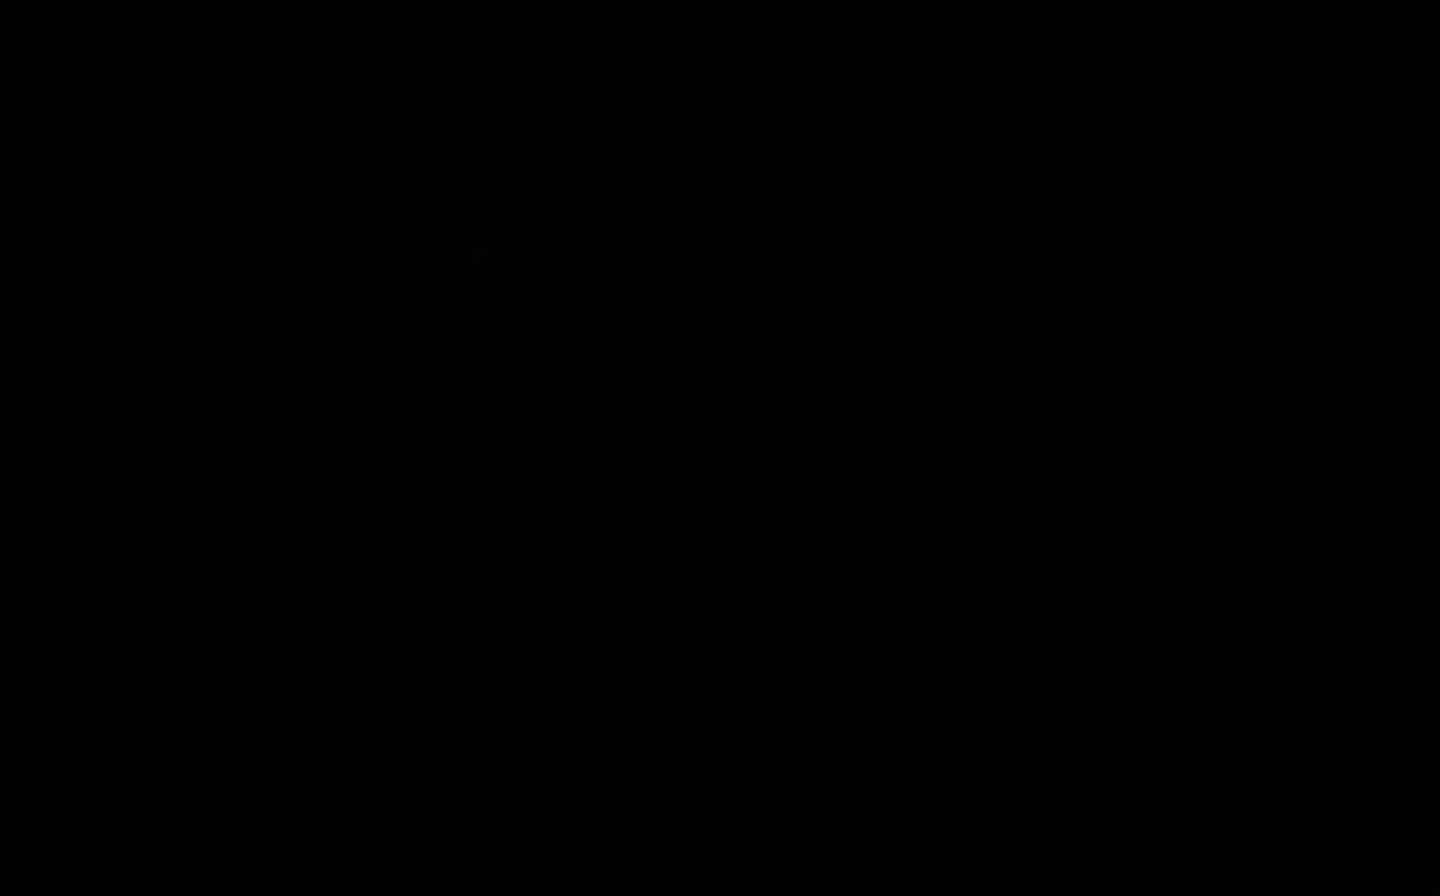
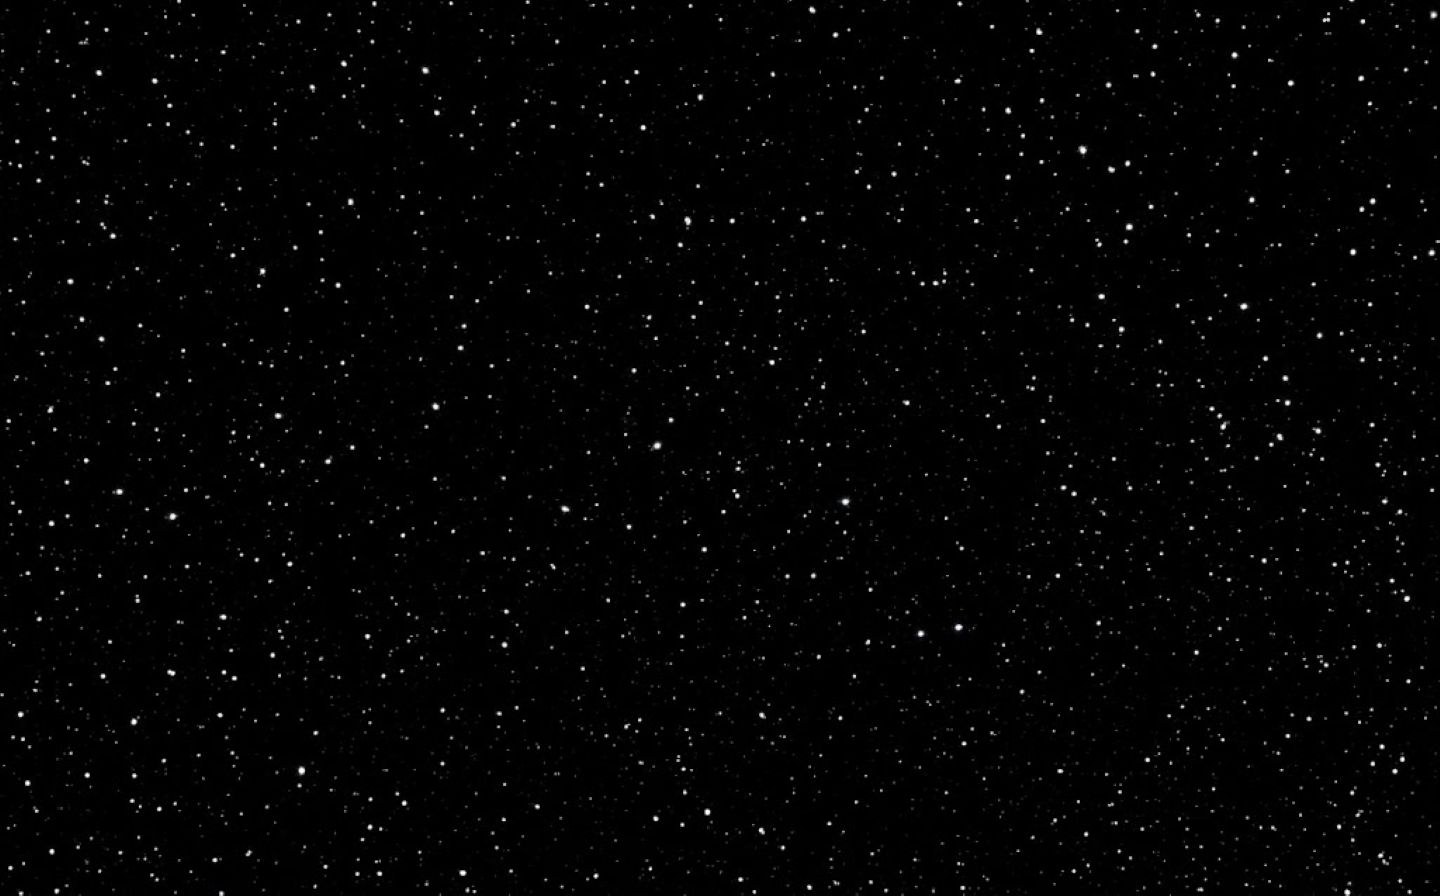
added new meteor images

diff --git a/src/GamePanel.java b/src/GamePanel.java
@@ -20,43 +20,43 @@ public class GamePanel extends JPanel{
         // Array รูปอุกาบาต
         meteorImg[0] = Toolkit.getDefaultToolkit().getImage(
             System.getProperty("user.dir") + File.separator + "images"
-                + File.separator + "asteroid1.png"
+                + File.separator + "meteor1.png"
         );
         meteorImg[1] = Toolkit.getDefaultToolkit().getImage(
             System.getProperty("user.dir") + File.separator + "images"
-                + File.separator + "asteroid2.png"
+                + File.separator + "meteor2.png"
         );
         meteorImg[2] = Toolkit.getDefaultToolkit().getImage(
             System.getProperty("user.dir") + File.separator + "images"
-                + File.separator + "asteroid3.png"
+                + File.separator + "meteor3.png"
         );
         meteorImg[3] = Toolkit.getDefaultToolkit().getImage(
             System.getProperty("user.dir") + File.separator + "images"
-                + File.separator + "asteroid4.png"
+                + File.separator + "meteor4.png"
         );
         meteorImg[4] = Toolkit.getDefaultToolkit().getImage(
             System.getProperty("user.dir") + File.separator + "images"
-                + File.separator + "asteroid5.png"
+                + File.separator + "meteor5.png"
         );
         meteorImg[5] = Toolkit.getDefaultToolkit().getImage(
             System.getProperty("user.dir") + File.separator + "images"
-                + File.separator + "asteroid6.png"
+                + File.separator + "meteor6.png"
         );
         meteorImg[6] = Toolkit.getDefaultToolkit().getImage(
             System.getProperty("user.dir") + File.separator + "images"
-                + File.separator + "asteroid7.png"
+                + File.separator + "meteor7.png"
         );
         meteorImg[7] = Toolkit.getDefaultToolkit().getImage(
             System.getProperty("user.dir") + File.separator + "images"
-                + File.separator + "asteroid8.png"
+                + File.separator + "meteor8.png"
         );
         meteorImg[8] = Toolkit.getDefaultToolkit().getImage(
             System.getProperty("user.dir") + File.separator + "images"
-                + File.separator + "asteroid9.png"
+                + File.separator + "meteor9.png"
         );
         meteorImg[9] = Toolkit.getDefaultToolkit().getImage(
             System.getProperty("user.dir") + File.separator + "images"
-                + File.separator + "asteroid10.png"
+                + File.separator + "meteor10.png"
         );
         bg = Toolkit.getDefaultToolkit().getImage(
             System.getProperty("user.dir") + File.separator + "images"

diff --git a/src/MainGame.java b/src/MainGame.java
@@ -20,19 +20,22 @@ public class MainGame extends JFrame{
     }
 
     public static void main(String[] args) {
-        UIManager.put("OptionPane.messageFont", new Font("Tahoma", Font.PLAIN, 16));
-        UIManager.put("OptionPane.buttonFont", new Font("Tahoma", Font.PLAIN, 14));
-
-        String input = JOptionPane.showInputDialog(null, "กรุณากรอกจำนวนอุกกาบาต:", "ตั้งค่าเกม", JOptionPane.QUESTION_MESSAGE);
-
-        int meteorCount = 10;
-        try {
-            if (input != null) {
-                meteorCount = Integer.parseInt(input);
+        int meteorCount = 0;
+        do {
+            UIManager.put("OptionPane.messageFont", new Font("Tahoma", Font.PLAIN, 16));
+            UIManager.put("OptionPane.buttonFont", new Font("Tahoma", Font.PLAIN, 14));
+    
+            String input = JOptionPane.showInputDialog(null, "กรุณากรอกจำนวนอุกกาบาต:", "ตั้งค่าเกม", JOptionPane.QUESTION_MESSAGE);
+    
+            try {
+                if (input != null) {
+                    meteorCount = Integer.parseInt(input);
+                }
+            } catch (NumberFormatException e) {
+                JOptionPane.showMessageDialog(null, "กรอกไม่ถูกต้อง!", "ข้อผิดพลาด", JOptionPane.ERROR_MESSAGE);
             }
-        } catch (NumberFormatException e) {
-            JOptionPane.showMessageDialog(null, "กรอกไม่ถูกต้อง! ใช้ค่าเริ่มต้น = 10", "ข้อผิดพลาด", JOptionPane.ERROR_MESSAGE);
-        }
+            
+        } while (meteorCount == 0);
 
         new MainGame(meteorCount);
     }
